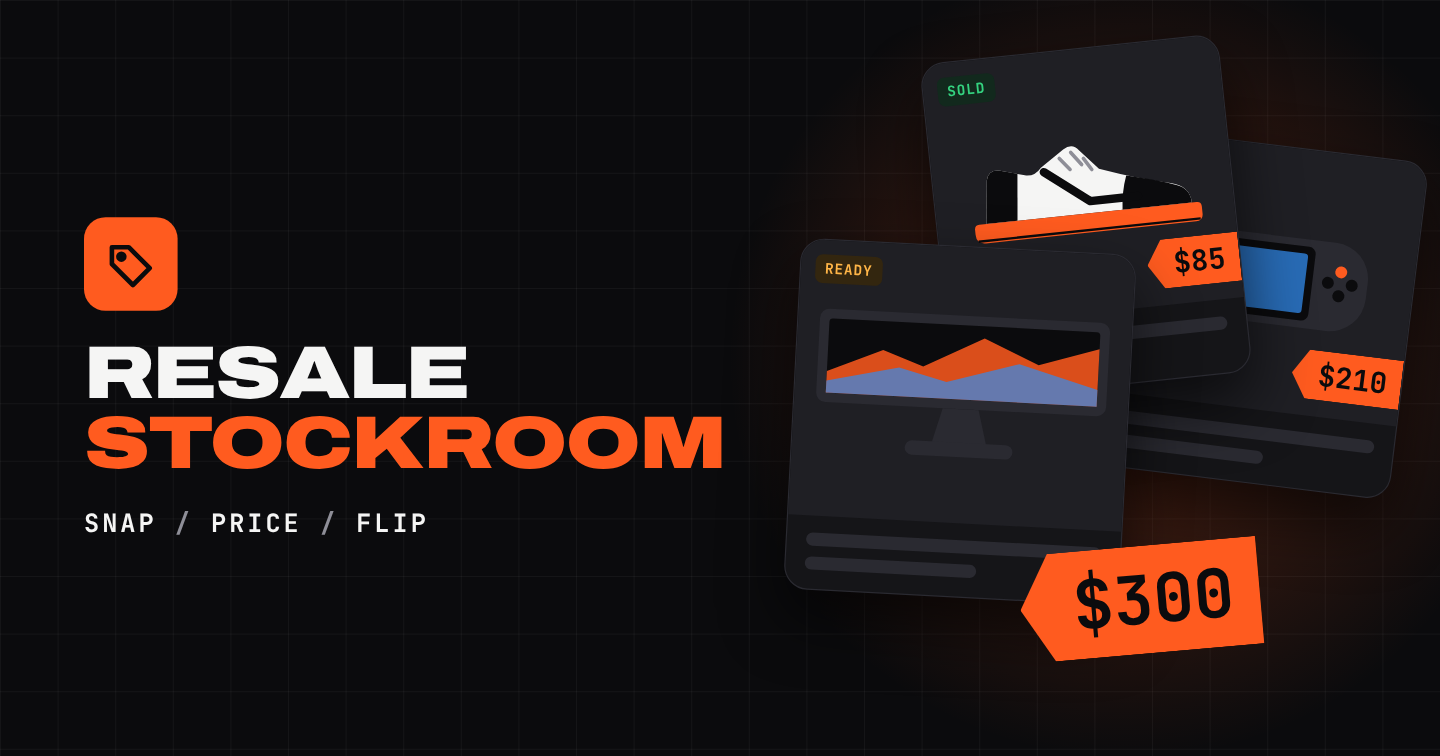
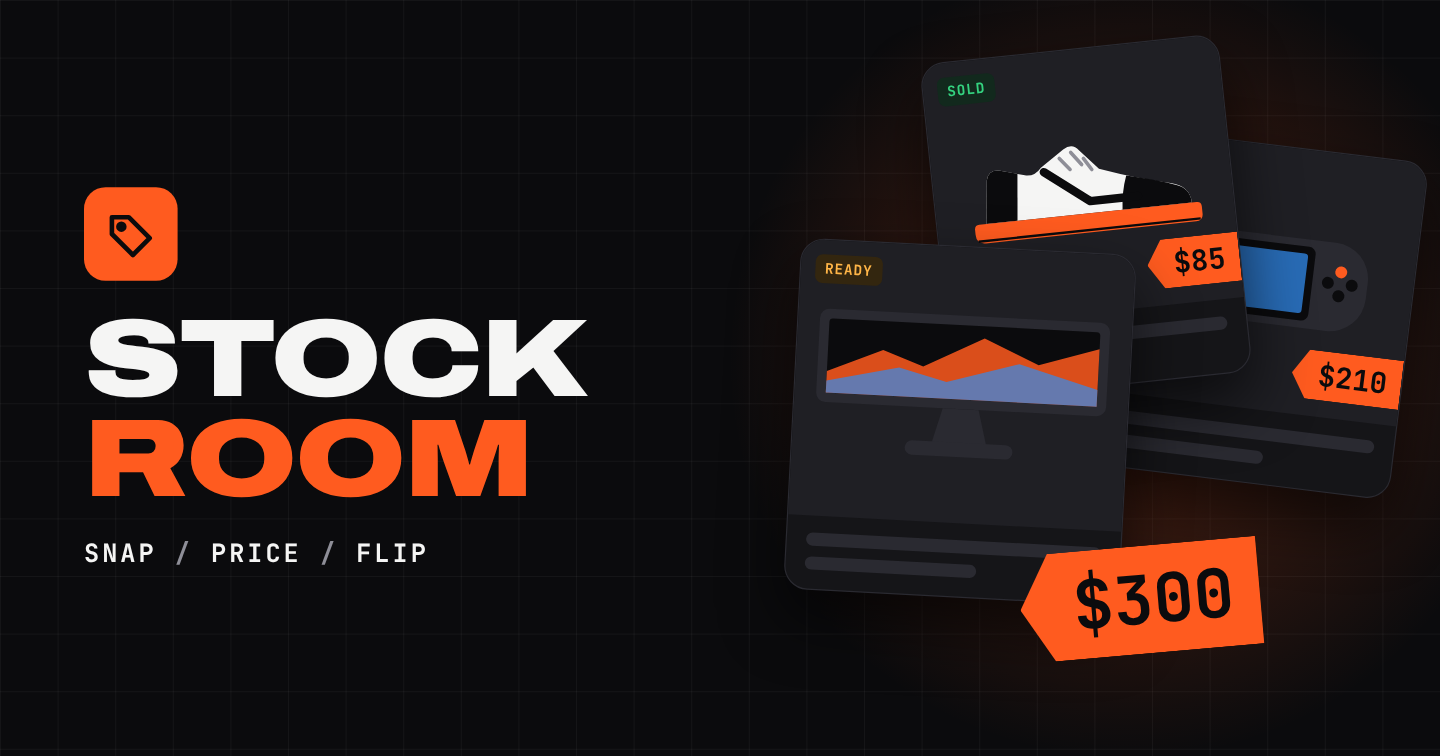
Rename to Stockroom everywhere, ahead of its own stockroom repo
Claude-Session: https://claude.ai/code/session_01DAyoxPFcgLRfzJGaFxuDrt

Changed region(s): [[0.0312, 0.2434, 0.5, 0.7606]]

diff --git a/resale/index.html b/resale/index.html
@@ -1,4 +1,4 @@
-<title>Resale Stockroom</title>
+<title>Stockroom</title>
 <link rel="artifact-thumbnail" href="thumb.png">
 <meta name="claude:viewport-fit-sides" content="cover">
 <link rel="stylesheet" href="https://fonts.googleapis.com/css2?family=Archivo:wdth,wght@100..125,600..900&family=Inter:wght@400;500;600;700&family=JetBrains+Mono:wght@500;700&display=swap">
@@ -234,7 +234,7 @@ input[type=range]{width:100%;accent-color:var(--act)}
 </svg>
 
 <header class="top"><div class="wrap">
-  <h1><span class="logo"><svg class="ic" width="18" height="18"><use href="#i-tag"/></svg></span>Resale Stockroom</h1>
+  <h1><span class="logo"><svg class="ic" width="18" height="18"><use href="#i-tag"/></svg></span>Stockroom</h1>
   <nav id="nav" aria-label="Sections">
     <a href="#shelf" data-v="shelf"><svg class="ic" width="22" height="22"><use href="#i-box"/></svg>Stash</a>
     <a href="#add" data-v="add" class="add"><span class="bub"><svg class="ic" width="20" height="20"><use href="#i-cam"/></svg></span>Add</a>

diff --git a/resale/launcher/index.html b/resale/launcher/index.html
@@ -36,7 +36,7 @@
 <body>
 <main>
   <img class="icon" src="apple-touch-icon.png" alt="">
-  <h1>Resale<span>Stockroom</span></h1>
+  <h1>Stock<span>room</span></h1>
   <ol>
     <li><span>Tap <b>Share</b> at the bottom of Safari</span></li>
     <li><span>Tap <b>Add to Home Screen</b></span></li>

diff --git a/resale/README.md b/resale/README.md
@@ -1,4 +1,4 @@
-# Resale Stockroom
+# Stockroom
 
 Inventory app for flipping sneakers and electronics. Lives here as a stopgap. It isn't part of the podcast toolkit and should move to its own repo.
 
